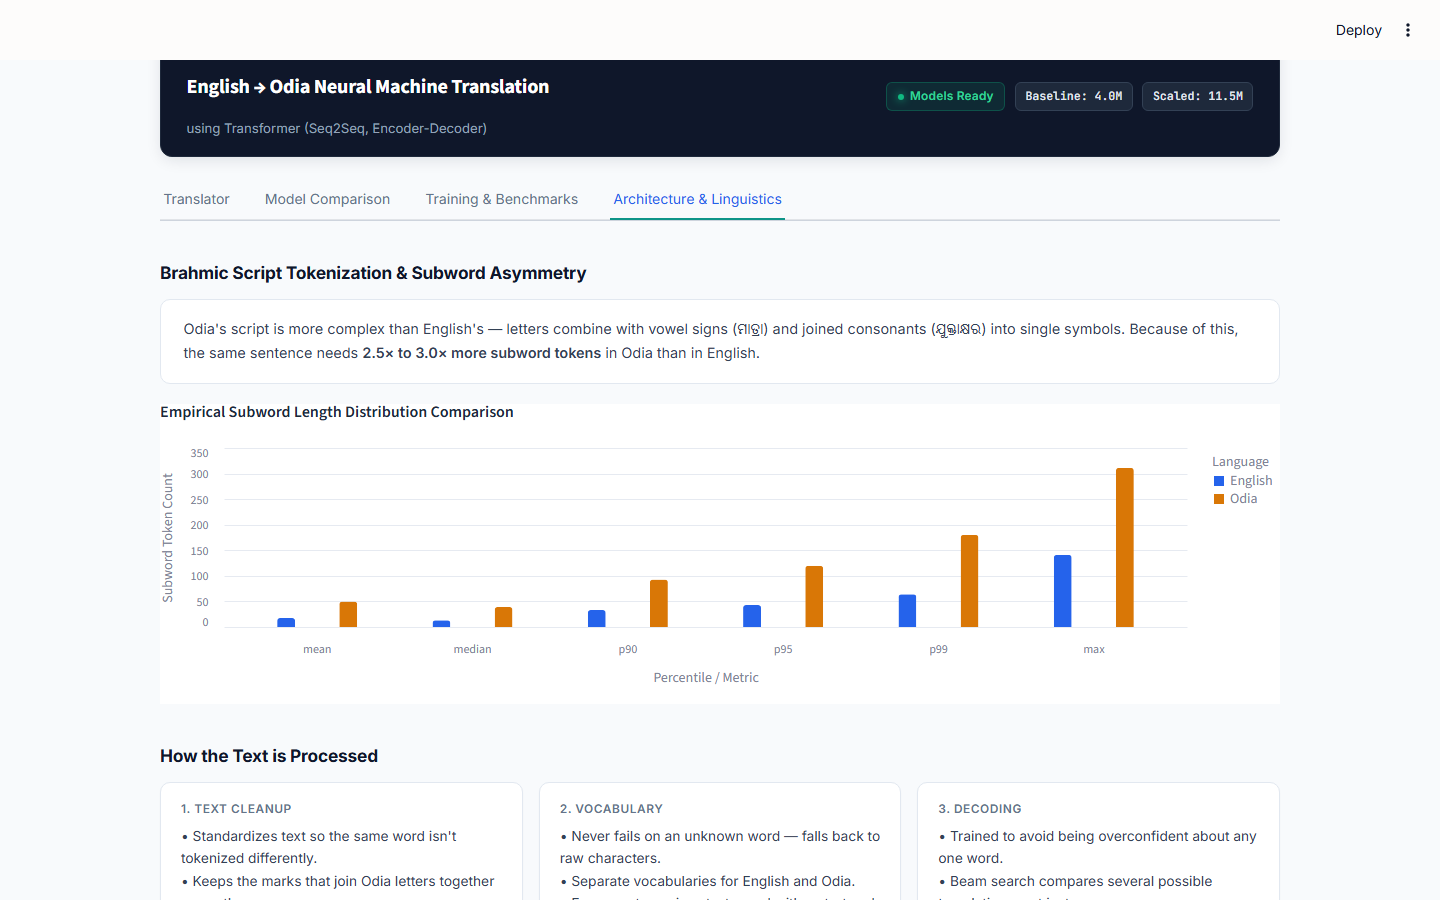
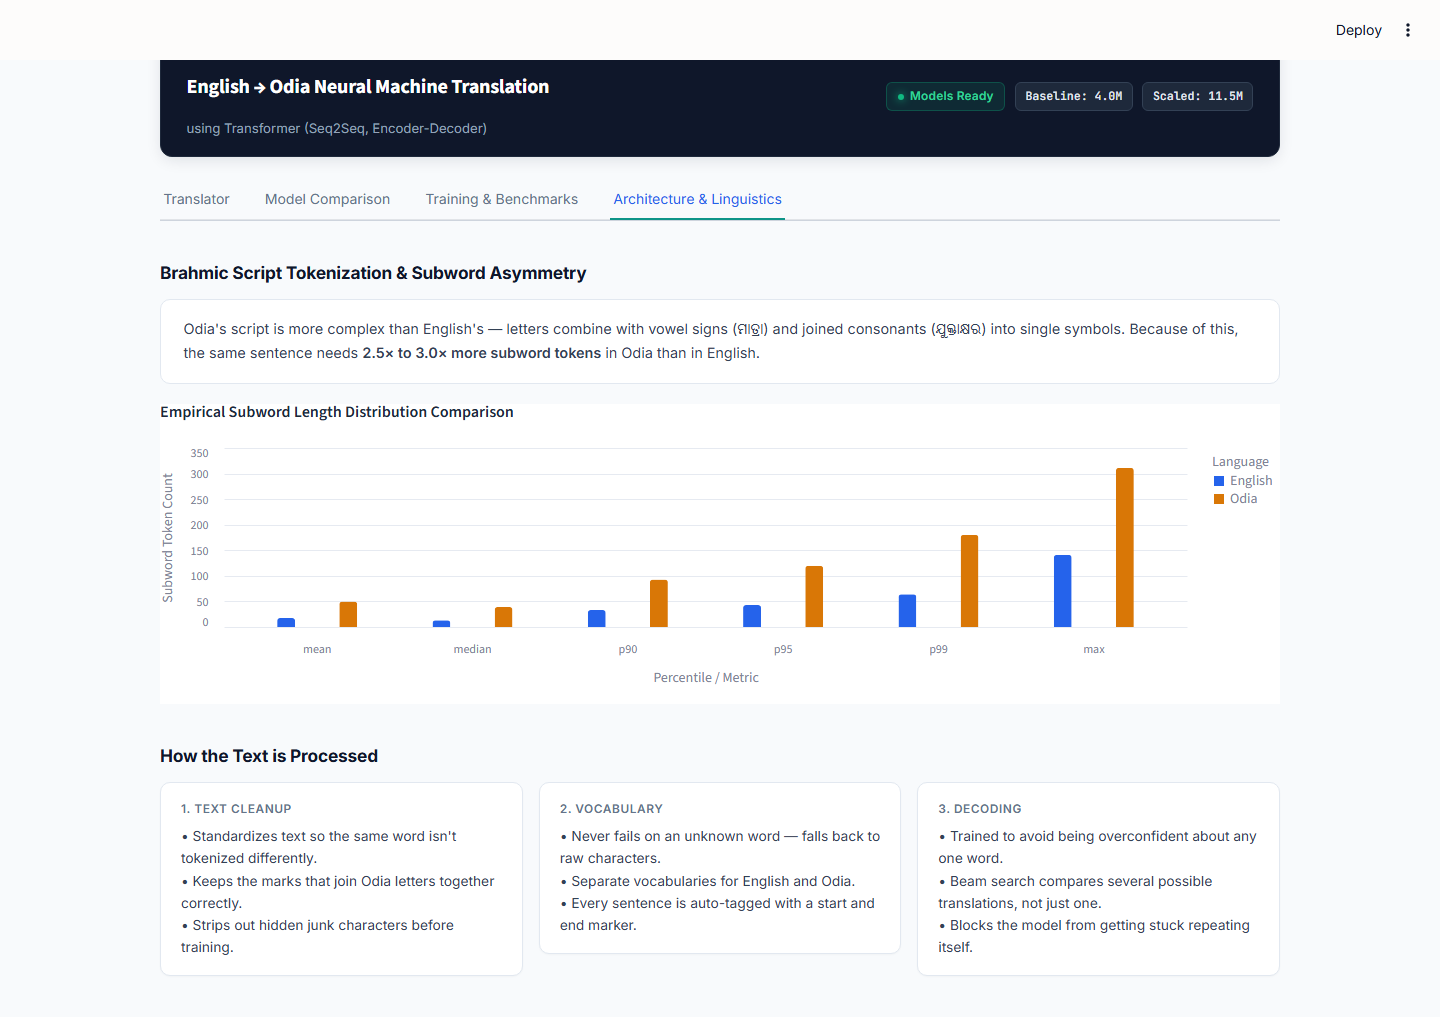
Add full-resolution analysis figures and more dashboard screenshots
Replaced the cropped tab screenshots with full-tab captures (charts and
tables were getting cut off), added side-by-side model comparison and
attention heatmap screenshots, and copied the real analysis figures
(EDA, loss curves, param breakdown, LR schedules) into docs/figures.

diff --git a/README.md b/README.md
@@ -18,6 +18,7 @@ models side by side, and inspecting every training/evaluation result.
 - [Requirement Coverage](#requirement-coverage)
 - [Limitations](#limitations)
 - [Screenshots](#screenshots)
+- [Analysis Figures](#analysis-figures)
 - [Project Structure](#project-structure)
 - [Setup](#setup)
 - [Run the Dashboard](#run-the-dashboard)
@@ -90,17 +91,52 @@ causal-mask bug check on the training curves.
 Typing a sentence runs it through the model live, with token counts and decoding settings shown alongside the output.
 ![Translator tab, translated output](docs/screenshots/02_translator_result.png)
 
+### Translator — baseline vs. scaled, side by side
+Both models translating the same sentence at once, with per-model latency and token stats.
+![Translator tab, side-by-side model comparison](docs/screenshots/02b_translator_side_by_side.png)
+
+### Translator — cross-attention heatmap
+Which English source tokens the model attended to while generating each Odia subword — the "extra credit" attention visualization.
+![Translator tab, cross-attention alignment heatmap](docs/screenshots/02c_translator_attention_heatmap.png)
+
 ### Model Comparison
-Baseline vs. scaled model, side by side — parameter counts, loss curves, architecture table, and example translations.
+Baseline vs. scaled model in full: KPI cards, loss curves, the 4-panel comparison figure, architecture table, and example translations.
 ![Model Comparison tab](docs/screenshots/03_model_comparison.png)
 
 ### Training & Benchmarks
-Training loss curve, BLEU score, and how translation quality changes with sentence length — including a confusion matrix testing whether sentence length alone predicts repetition failures.
+Training loss curve, BLEU score, quality-vs-sentence-length analysis, the BLEU distribution, and a confusion matrix testing whether sentence length alone predicts repetition failures.
 ![Training & Benchmarks tab](docs/screenshots/04_training_benchmarks.png)
 
 ### Architecture & Linguistics
 Why Odia needs more subword tokens than English, and how the text pipeline works.
 ![Architecture & Linguistics tab](docs/screenshots/05_architecture_linguistics.png)
+
+## Analysis Figures
+
+These are the underlying matplotlib figures generated from the training/eval JSON in `reports/` —
+the same charts shown in the dashboard and the results notebook, at full resolution.
+
+### Dataset EDA
+Sentence-length distributions (words and subwords), the data cleaning funnel (58,000 raw pairs → 40,000 final), and corpus vocabulary stats.
+![Dataset EDA: length distributions, cleaning funnel, vocab stats](docs/figures/analysis_dataset_eda.png)
+
+### Full baseline-vs-scaled comparison
+Loss curves, compute/size comparison, architecture spec table, and qualitative output comparison in one figure.
+![Full baseline vs. scaled comparison](docs/figures/analysis_full_comparison.png)
+
+### Training loss curves (full scale + zoomed)
+![Training and validation loss curves](docs/figures/analysis_loss_curves.png)
+
+### Parameter breakdown by layer
+Where each model's parameters live (embeddings, encoder/decoder blocks, output projection) and the effect of weight tying.
+![Layer-by-layer parameter breakdown](docs/figures/analysis_param_breakdown.png)
+
+### Learning rate schedules
+Baseline's Noam warmup vs. the scaled model's cosine schedule with warmup.
+![Learning rate schedule comparison](docs/figures/analysis_lr_schedules.png)
+
+### Baseline training loss (from the results notebook)
+![Baseline model loss curve](docs/figures/analysis_baseline_loss_curve.png)
 
 ## Project Structure
 
@@ -134,6 +170,7 @@ reports/                    Results (tracked in git)
 └── figures/                  Generated comparison charts (gitignored, regenerate via scripts)
 
 docs/screenshots/           Dashboard screenshots used in this README
+docs/figures/               Full-resolution analysis figures used in this README
 
 data/, tokenizers/, checkpoints/   Generated locally by the pipeline (gitignored)
 ```
